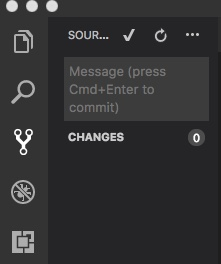
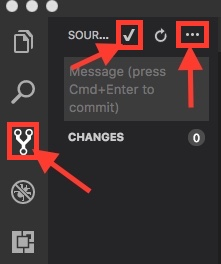
Added Screenshots

Changed region(s): [[0.0271, 0.4545, 0.4344, 0.7576], [0.7873, 0.0606, 0.9502, 0.4242], [0.2986, 0.0606, 0.6516, 0.2727]]

diff --git a/guidebook.md b/guidebook.md
@@ -23,8 +23,6 @@ Follow these steps to create and share your GitHub acccount:
 1. If you don't have a GitHub account already, navigate to .  [https://github.com/join](https://github.com/join) to create an account. The email address you submit should be your ServiceNow email address. The user name can be whatever you wish.
 1. Send the user name defined in step 1 to [Jason McKee](mailto:jason.mckee@servicenow.com). Jason will submit your name to the GitHub org created for K18. An inviation will be sent to your email that you must accept.
 
-Beyond standard Markdown, we have a few conventions you need to follow for your guidebook to render properly
-
 ## Local Configuraiton
 The following steps and terminal window commands need to be run on each machine to ensure GitHub is configured correclty to run with VS Studio and to properly access the GitHub repository. 
 
@@ -54,21 +52,25 @@ As a K18 Lab or CC Workshop speaker, you will require access to the GitHub org s
 1. If you haven't already, send your registerd GitHub user name to [Jason McKee](mailto:jason.mckee@servicenow.com). Jason will submit your name to the GitHub org created for K18. An inviation will be sent to your email that you must accept.
 1. Open the invitation email from "GitHub" or "jasontmckeesn" to join the ServiceNow Events organization. 
 1. Click the "Join ServiceNowEvents" button
-1. Repeat these steps for each GitHub invitation you receive. 
+1. Repeat these steps for each GitHub invitation you receive. The second invitation should grant you access to your guide repository.
 
 # Cloning Guide Locally
 ## Downloading Guide Template
-Now that you have access to the repository and have acceppted the invitation, it's time to start working on your guide. But first, you need to download the guide from the repository. Follow these steps to download it. This step is only required once. 
+Now that you have access to the org and repository by accepting the invitation, it's time to start working on your guide. But first, you need to download the guide from the repository to your local computer. Follow these steps to download. This step is only required once. 
 
 1. Log into your GitHub account. 
-1. Under the "Your Repositories" tile on the left, click the lab guide repoistory for you specific lab. 
+1. Under the "Your Repositories" tile on the left, click the lab guide repoistory for you specific lab. This will open a new window with the files assoicated with this lab. 
 1. Once loaded, click the green "Clone or Download" button. 
-1. From the small dialog that opens, copy\paste the URL. (Note: You an also click the clipboard icon in the dialog)
-1. Swtich back to VS Studio Code
+1. From the small dialog that opens, copy\paste the URL. (Note: You can also click the clipboard icon in the dialog)
+  ![](images/clone_download_window.jpeg)
+5. Swtich back to VS Studio Code
 1. Select the "View|Command Palette" menu option
 1. From the sub menu that opens, slect "Git:Clone"
-1. Paste in the URL into the dialog and press enter
-1. Type in a local directory path to store the file and press Enter. A sub folder is recommended.
+
+    ![](images/git_clone.jpeg) 
+
+8. Paste in the URL into the dialog and press enter
+9. Type in a local directory path to store the file and press Enter. A sub folder is recommended.
 1. Selet "Open Repository"
 1. It may prompt you for an ID and Password. Plug in your GitHub ID and Password. 
 
@@ -81,11 +83,16 @@ Like any document, it's important to save your chagnes regularlly. To do this fo
 ## Upload Changes to GitHub
 Saving the file from the menu only saves it locally. You also need to push it up to the GitHub site, but it's not necessary to do this every time. Just remember to upload after a major change to the doc and final changes of course. Follwow these steps to properlly upload your guide back to GitHub
 
-1. Select teh icon in the left that looks like a "Y". This is your source control access. 
-1. Type in a short descritpion of the recent changes made. Somethink like "Added new lab 3 to guide". Press the checkmark. (Note: You must do this every time you want to upload.)
-1. It may prompt you with a dialog to "Stage" yur changes. Press "Yes"
+1. Select the icon in the left that looks like a "Y". This is your source control access. 
+
+    ![](images/checkin.jpeg)
+
+2. Type in a short descritpion of the recent changes made. Somethink like "Added new lab 3 to guide". Press the checkmark. (Note: You must do this every time you want to upload.)
+1. It may prompt you with a dialog to "Stage" your changes. Press "Yes"
 1. Select the "..." more option to the right of the checkmark. 
 1. Select "Push". An idicator should load that it is uploading. 
+
+    
 1. To verify success, swtich over to GitHub an load up the guide repository. Ensure that your changes are there. 
 
 For additional setup assisttance, please send your help requests to [tbd](mailto:tbd@servicenow.com) .
